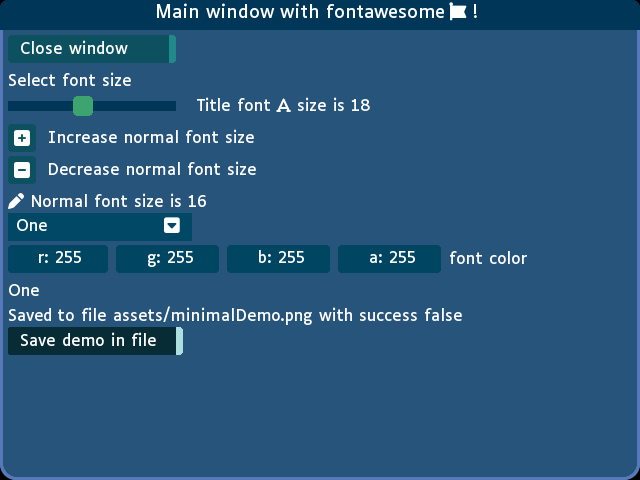
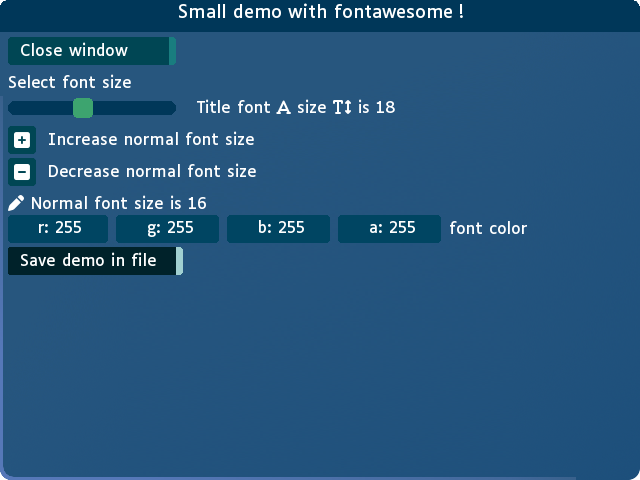
The default size of a panel is its parent size now. Update and simplify minimal demo.

diff --git a/examples/minimalDemo.cpp b/examples/minimalDemo.cpp
@@ -15,15 +15,10 @@ int main()
   auto window = sf::RenderWindow (sf::VideoMode (windowSize), "Minimal Demo");
   // For demo render
   sf::RenderTexture image (windowSize);
-  auto exportSuccess = false;
   // Gui initialization
   auto gui = sgui::Gui (font, texture, atlas, window);
   // Window settings and main loop
-  auto mainPanel = sgui::Panel {
-    .title = fmt::format ("Main window with fontawesome <fa>{}</fa> !", ICON_FA_FONT_AWESOME),
-    .size = { 1.f, 1.f }
-  };
-  auto combo = std::vector <std::string> { "One", "Two", "Three", "Four" };
+  auto mainPanel = sgui::Panel {.title = fmt::format ("Small demo with fontawesome !")};
   auto style = sgui::Style ();
   while (window.isOpen ())
   {
@@ -46,9 +41,7 @@ int main()
       gui.text ("Select font size");
       const auto descr = fmt::format (
         "Title font <fa>{}</fa> size <fa>{}</fa> is {}",
-        ICON_FA_FONT,
-        ICON_FA_TEXT_HEIGHT,
-        style.fontSize.title
+        ICON_FA_FONT, ICON_FA_TEXT_HEIGHT, style.fontSize.title
       );
       gui.slider (style.fontSize.title, 12u, 26u, {.description = descr});
       if (gui.icon (ICON_FA_SQUARE_PLUS, {.description = "Increase normal font size"})) {
@@ -58,16 +51,12 @@ int main()
         style.fontSize.normal = sgui::clamp (8u, 20u, style.fontSize.normal - 1);
       }
       gui.text (fmt::format ("<fa>{}</fa> Normal font size is {}", ICON_FA_PEN, style.fontSize.normal));
-      const auto selected = gui.comboBox (combo);
       gui.inputColor (style.fontColor, {.description = "font color"});
-      gui.text (selected);
-      const auto pngFile = DemoDir"/minimalDemo.png";
-      gui.text (fmt::format ("Saved to file assets/minimalDemo.png with success {}", exportSuccess));
       if (gui.button ("Save demo in file")) {
-        image.clear ();
+        image.clear (sf::Color::White);
         image.draw (gui);
         image.display ();
-        exportSuccess = image.getTexture ().copyToImage ().saveToFile (pngFile);
+        image.getTexture ().copyToImage ().saveToFile (DemoDir"/minimalDemo.png");
       }
       gui.endWindow ();
     }

diff --git a/src/sgui/Widgets/Panel.h b/src/sgui/Widgets/Panel.h
@@ -14,20 +14,20 @@ namespace sgui
  */
 struct Panel
 {
-  std::string title = "";     ///< title of the panel
-  sf::Vector2f position = {}; ///< position of the panel
-  sf::Vector2f size = {};     ///< size of the panel
-  bool hasHeader     = true;   ///< has it an header ?
-  bool hasMenu       = false;  ///< has it a menu ?
-  bool isTransparent = false;  ///< does it block click ?
-  bool isVisible     = true;   ///< is it rendered ?
-  bool isClosable    = false;  ///< is it closable ?
-  bool isMovable     = true;   ///< is it movable ?
-  bool isScrollable  = true;   ///< is it scrollable ?
-  bool isClosed      = false;  ///< is it closed ?
-  bool isReduced     = false;  ///< is it reduced (header only) ?
-  bool isClipped     = true;   ///< is contents clipped ?
-  bool isScrolled    = false;  ///< is it scrolled ?
+  std::string title = "";         ///< title of the panel
+  sf::Vector2f position = {};     ///< position of the panel
+  sf::Vector2f size = {1.f, 1.f}; ///< size of the panel
+  bool hasHeader     = true;      ///< has it an header ?
+  bool hasMenu       = false;     ///< has it a menu ?
+  bool isTransparent = false;     ///< does it block click ?
+  bool isVisible     = true;      ///< is it rendered ?
+  bool isClosable    = false;     ///< is it closable ?
+  bool isMovable     = true;      ///< is it movable ?
+  bool isScrollable  = true;      ///< is it scrollable ?
+  bool isClosed      = false;     ///< is it closed ?
+  bool isReduced     = false;     ///< is it reduced (header only) ?
+  bool isClipped     = true;      ///< is contents clipped ?
+  bool isScrolled    = false;     ///< is it scrolled ?
 };
 
 /////////////////////////////////////////////////

diff --git a/README.md b/README.md
@@ -184,17 +184,14 @@ int main()
   auto atlas = sgui::TextureAtlas (sgui::DefaultAtlas);
   auto texture = sf::Texture (sgui::DefaultTexture);
   // Window initialization
-  auto window = sf::RenderWindow (sf::VideoMode ({640u, 480u}), "Minimal Demo");
-  window.setFramerateLimit (60);
+  const auto windowSize = sf::Vector2u { 640u, 480u };
+  auto window = sf::RenderWindow (sf::VideoMode (windowSize), "Minimal Demo");
   // For demo render
-  sf::RenderTexture image ({640u, 480u});
-  auto exportSuccess = false;
+  sf::RenderTexture image (windowSize);
   // Gui initialization
   auto gui = sgui::Gui (font, texture, atlas, window);
   // Window settings and main loop
-  auto mainPanel = sgui::Panel ({ 1.f, 1.f });
-  mainPanel.title = fmt::format ("Main window with fontawesome |{}|", ICON_FA_FONT_AWESOME);
-  auto combo = std::vector <std::string> { "One", "Two", "Three", "Four" };
+  auto mainPanel = sgui::Panel {.title = fmt::format ("Small demo with fontawesome !")};
   auto style = sgui::Style ();
   while (window.isOpen ())
   {
@@ -215,36 +212,36 @@ int main()
         window.close ();
       }
       gui.text ("Select font size");
-      const auto descr = fmt::format ("Title font |{}| size is {}", ICON_FA_FONT, style.fontSize.title);
-      gui.slider (style.fontSize.title, 12u, 26u, {descr});
-      if (gui.icon (ICON_FA_SQUARE_PLUS, {"Increase normal font size"})) {
+      const auto descr = fmt::format (
+        "Title font <fa>{}</fa> size <fa>{}</fa> is {}",
+        ICON_FA_FONT, ICON_FA_TEXT_HEIGHT, style.fontSize.title
+      );
+      gui.slider (style.fontSize.title, 12u, 26u, {.description = descr});
+      if (gui.icon (ICON_FA_SQUARE_PLUS, {.description = "Increase normal font size"})) {
         style.fontSize.normal = sgui::clamp (8u, 20u, style.fontSize.normal + 1);
       }
-      if (gui.icon (ICON_FA_SQUARE_MINUS, {"Decrease normal font size"})) {
+      if (gui.icon (ICON_FA_SQUARE_MINUS, {.description = "Decrease normal font size"})) {
         style.fontSize.normal = sgui::clamp (8u, 20u, style.fontSize.normal - 1);
       }
-      gui.text (fmt::format ("|{}| Normal font size is {}", ICON_FA_PEN, style.fontSize.normal));
-      const auto selected = gui.comboBox (combo);
-      gui.inputColor (style.fontColor, {"font color"});
-      gui.text (selected);
-      const auto pngFile = DemoDir"/minimalDemo.png";
-      gui.text (fmt::format ("Saved to file assets/minimalDemo.png with success {}", exportSuccess));
+      gui.text (fmt::format ("<fa>{}</fa> Normal font size is {}", ICON_FA_PEN, style.fontSize.normal));
+      gui.inputColor (style.fontColor, {.description = "font color"});
       if (gui.button ("Save demo in file")) {
-        image.clear ();
+        image.clear (sf::Color::White);
         image.draw (gui);
         image.display ();
-        exportSuccess = image.getTexture ().copyToImage ().saveToFile (pngFile);
+        image.getTexture ().copyToImage ().saveToFile (DemoDir"/minimalDemo.png");
       }
       gui.endWindow ();
     }
     gui.endFrame ();
 
     // Drawing
-    window.clear ();
+    window.clear (sf::Color::White);
     window.draw (gui);
     window.display ();
   }
 }
+
 ```
 
 ![Screenshot of minimal demo](https://github.com/stoleks/smolgui/blob/main/examples/assets/minimalDemo.png)
